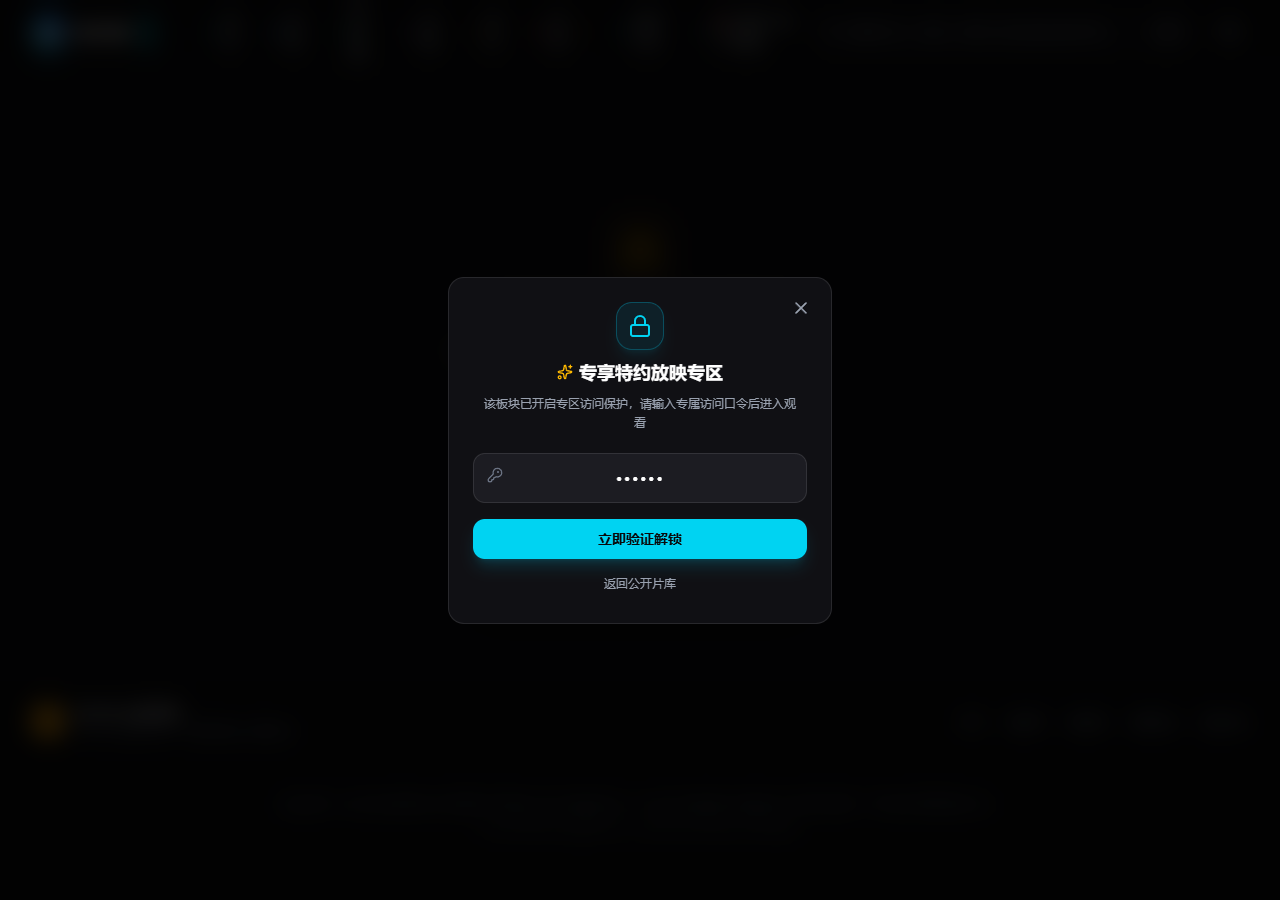
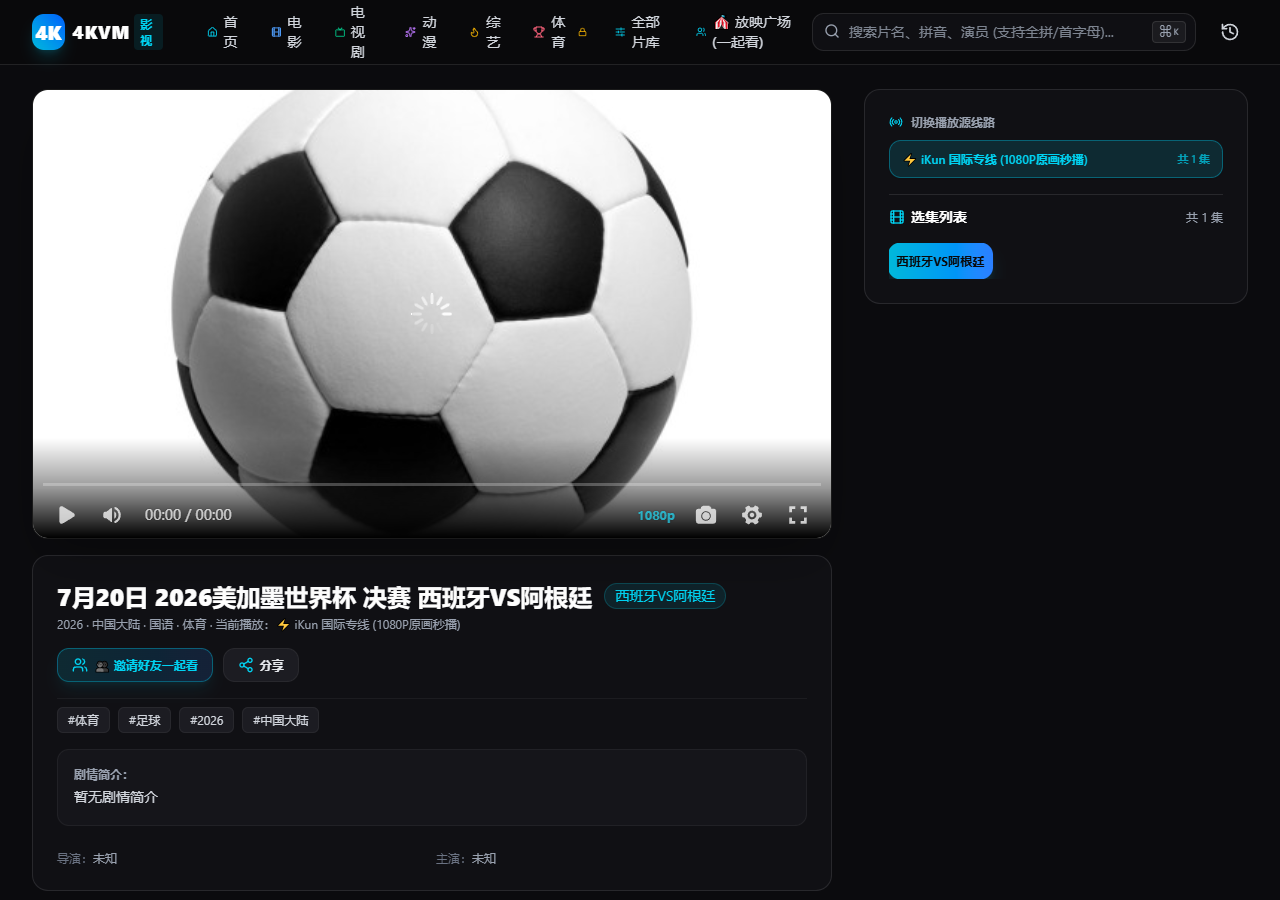
feat(config): add .env support for GATED_CONFIG, union priority logic, .env.example and comprehensive README documentation

diff --git a/src/config/gated-sections.ts b/src/config/gated-sections.ts
@@ -1,16 +1,35 @@
+function parseStringList(val: string | undefined, defaultList: string[]): string[] {
+  if (val === undefined || val === null || val.trim() === "") return defaultList;
+  return val
+    .split(",")
+    .map((s) => s.trim())
+    .filter(Boolean);
+}
+
+function parseNumberList(val: string | undefined, defaultList: number[]): number[] {
+  if (val === undefined || val === null || val.trim() === "") return defaultList;
+  return val
+    .split(",")
+    .map((s) => parseInt(s.trim(), 10))
+    .filter((n) => !isNaN(n));
+}
+
 /**
  * 4KVM 专区加锁 / 口令解锁全局配置中心
- * 可随时在此自定义需要输入口令的一级主分类、细分子类或具体 type_id
+ * 支持通过 .env 或 .env.local 环境变量完全覆盖与动态配置
  */
 export const GATED_CONFIG = {
-  // 解锁口令（支持在环境变量 NEXT_PUBLIC_GATED_PIN 中覆盖，默认口令 666888）
+  // 解锁口令（环境变量 NEXT_PUBLIC_GATED_PIN，默认 666888）
   passcode: process.env.NEXT_PUBLIC_GATED_PIN || "666888",
 
-  // 需要加锁的一级主分类名称（可在数组中自由添加或修改，例如 ["体育", "综艺"]）
-  lockedTypes: ["体育"],
+  // 粗粒度：需要加锁的一级主分类名称（环境变量 NEXT_PUBLIC_GATED_LOCKED_TYPES，英文逗号分隔，例如 "体育,综艺"）
+  lockedTypes: parseStringList(process.env.NEXT_PUBLIC_GATED_LOCKED_TYPES, ["体育"]),
 
-  // 或者按具体 type_id 细粒度加锁（40-55 为体育各项赛事及电竞）
-  lockedTypeIds: [40, 41, 46, 47, 48, 49, 50, 51, 52, 53, 54, 55],
+  // 细粒度：按具体 type_id 细粒度加锁（环境变量 NEXT_PUBLIC_GATED_LOCKED_TYPE_IDS，英文逗号分隔）
+  lockedTypeIds: parseNumberList(
+    process.env.NEXT_PUBLIC_GATED_LOCKED_TYPE_IDS,
+    [40, 41, 46, 47, 48, 49, 50, 51, 52, 53, 54, 55]
+  ),
 
   // 客户端持久化存储与请求头安全 Key
   storageKey: "4kvm_gated_passcode_token",
@@ -21,3 +40,39 @@ export const GATED_CONFIG = {
   title: "专享特约放映专区",
   description: "该板块已开启专区访问保护，请输入专属访问口令后进入观看",
 };
+
+/**
+ * 校验某一级主分类名称是否属于特约受限专区
+ */
+export function isTypeGated(typeName?: string | null): boolean {
+  if (!typeName) return false;
+  return GATED_CONFIG.lockedTypes.includes(typeName);
+}
+
+/**
+ * 校验某个细分子分类 ID 是否属于特约受限专区
+ */
+export function isTypeIdGated(typeId?: number | string | null): boolean {
+  if (typeId === undefined || typeId === null) return false;
+  const tid = typeof typeId === "number" ? typeId : parseInt(String(typeId), 10);
+  return !isNaN(tid) && GATED_CONFIG.lockedTypeIds.includes(tid);
+}
+
+/**
+ * 校验某个影片或分类对象是否属于受保护专区
+ * 
+ * 【优先级与判定逻辑：并集策略 (Union Policy)】
+ * 1. Step 1 (粗粒度快速覆盖)：若其一级分类名称 (type_name) 在 lockedTypes 列表中，立刻判定为受限；
+ * 2. Step 2 (细粒度精准补漏)：若一级分类未命中，但其具体子分类 ID (type_id) 在 lockedTypeIds 列表中，亦判定为受限；
+ * 3. 命中任一规则即受保护！
+ */
+export function isItemGated(item?: { type_name?: string; type_id?: number | string } | null): boolean {
+  if (!item) return false;
+  if (item.type_name && isTypeGated(item.type_name)) {
+    return true;
+  }
+  if (item.type_id !== undefined && item.type_id !== null && isTypeIdGated(item.type_id)) {
+    return true;
+  }
+  return false;
+}

diff --git a/src/app/category/page.tsx b/src/app/category/page.tsx
@@ -5,7 +5,7 @@ import { useRouter, useSearchParams } from "next/navigation";
 import { MovieCard } from "@/components/MovieCard";
 import { CreateRoomModal } from "@/components/CreateRoomModal";
 import { PasscodeModal } from "@/components/PasscodeModal";
-import { GATED_CONFIG } from "@/config/gated-sections";
+import { GATED_CONFIG, isTypeGated } from "@/config/gated-sections";
 import { VodItem } from "@/lib/types";
 import {
   Loader2,
@@ -160,7 +160,7 @@ function CategoryContent() {
   };
 
   const handleTypeClick = (val: string) => {
-    const isLocked = GATED_CONFIG.lockedTypes.includes(val);
+    const isLocked = isTypeGated(val);
     const hasUnlocked = unlockedPin === GATED_CONFIG.passcode;
     if (isLocked && !hasUnlocked) {
       setPendingType(val);
@@ -181,7 +181,7 @@ function CategoryContent() {
   const handleRelock = () => {
     localStorage.removeItem(GATED_CONFIG.storageKey);
     setUnlockedPin("");
-    if (GATED_CONFIG.lockedTypes.includes(currentType)) {
+    if (isTypeGated(currentType)) {
       updateFilter("type", "全部");
     }
   };
@@ -196,7 +196,7 @@ function CategoryContent() {
     router.push("/category");
   };
 
-  const isCurrentTypeGated = GATED_CONFIG.lockedTypes.includes(currentType);
+  const isCurrentTypeGated = isTypeGated(currentType);
   const isGatedUnlocked = unlockedPin === GATED_CONFIG.passcode;
 
   return (
@@ -247,7 +247,7 @@ function CategoryContent() {
           <div className="flex flex-nowrap sm:flex-wrap gap-1.5 flex-1 overflow-x-auto pb-1.5 sm:pb-0 scrollbar-none">
             {FILTER_CONFIG.types.map((item) => {
               const active = currentType === item.value;
-              const isLocked = GATED_CONFIG.lockedTypes.includes(item.value);
+              const isLocked = isTypeGated(item.value);
               const hasUnlocked = unlockedPin === GATED_CONFIG.passcode;
               return (
                 <button

diff --git a/src/components/Navbar.tsx b/src/components/Navbar.tsx
@@ -18,7 +18,7 @@ import {
   Trophy,
   Lock,
 } from "lucide-react";
-import { GATED_CONFIG } from "@/config/gated-sections";
+import { GATED_CONFIG, isTypeGated } from "@/config/gated-sections";
 import { DesktopSearch, MobileSearchModal } from "@/components/Search/GlobalSearch";
 
 
@@ -126,7 +126,7 @@ export function Navbar() {
                 >
                   <Trophy className="w-4 h-4 text-rose-400" />
                   体育
-                  {GATED_CONFIG.lockedTypes.includes("体育") && (
+                  {isTypeGated("体育") && (
                     <Lock className="w-3 h-3 text-amber-400" />
                   )}
                 </Link>
@@ -288,7 +288,7 @@ export function Navbar() {
                     <Trophy className="w-4 h-4 text-rose-400" />
                     体育
                   </div>
-                  {GATED_CONFIG.lockedTypes.includes("体育") && (
+                  {isTypeGated("体育") && (
                     <span className="flex items-center gap-1 text-[11px] text-amber-400 bg-amber-500/10 px-1.5 py-0.5 rounded border border-amber-500/20">
                       <Lock className="w-2.5 h-2.5" /> 口令
                     </span>

diff --git a/src/app/api/vod/route.ts b/src/app/api/vod/route.ts
@@ -1,6 +1,6 @@
 import { NextResponse } from "next/server";
 import { fetchLiveVods, fetchLiveVodDetail } from "@/lib/vod-service";
-import { GATED_CONFIG } from "@/config/gated-sections";
+import { GATED_CONFIG, isItemGated, isTypeGated } from "@/config/gated-sections";
 
 export async function GET(request: Request) {
   const { searchParams } = new URL(request.url);
@@ -16,7 +16,7 @@ export async function GET(request: Request) {
 
   if (action === "detail" && id) {
     const item = await fetchLiveVodDetail(id);
-    if (item && GATED_CONFIG.lockedTypes.includes(item.type_name)) {
+    if (item && isItemGated(item)) {
       if (!checkPasscode()) {
         return NextResponse.json(
           { code: 403, msg: "该内容属于专享保护板块，请提供访问口令" },
@@ -30,7 +30,7 @@ export async function GET(request: Request) {
   const type = searchParams.get("type") || "全部";
 
   // 服务端双重安全防护：若请求受保护分类，强制验证口令
-  if (GATED_CONFIG.lockedTypes.includes(type)) {
+  if (isTypeGated(type)) {
     if (!checkPasscode()) {
       return NextResponse.json(
         {

diff --git a/src/app/api/vod/suggest/route.ts b/src/app/api/vod/suggest/route.ts
@@ -1,6 +1,6 @@
 import { NextResponse } from "next/server";
 import { querySuggestions } from "@/lib/search-engine";
-import { GATED_CONFIG } from "@/config/gated-sections";
+import { GATED_CONFIG, isItemGated } from "@/config/gated-sections";
 
 export async function GET(request: Request) {
   const { searchParams } = new URL(request.url);
@@ -21,7 +21,7 @@ export async function GET(request: Request) {
 
   // 若未解锁受控专区，过滤掉受控专区的内容
   if (!isUnlocked) {
-    list = list.filter((item) => !GATED_CONFIG.lockedTypes.includes(item.type_name));
+    list = list.filter((item) => !isItemGated(item));
   }
 
   return NextResponse.json({

diff --git a/README.md b/README.md
@@ -106,8 +106,34 @@
 
 ---
 
-### 8. 📱 全平台 PWA 原生应用与移动端适配
+### 8. 🔒 专享特约放映专区与双重安全防护体系 (Gated Access Security)
+- **业务场景与防爆破设计**：
+  - 为满足特定合规、私密或特约放映专区（如体育赛事、特定定制板块）的管理需求，系统提供**端到端双重安全防护**；
+  - **前端体验**：未解锁时导航与分类标有 `🔒 专享` 标识，点击平滑呼出暗黑毛玻璃口令输入框；解锁后凭证安全存储于 `localStorage`，全站免密畅播；
+  - **后端拦截**：即使恶意绕过前端网页直接请求后端 API（如 `/api/vod?action=detail&id=...`），服务端执行安全检验，缺少口令直接抛出 `HTTP 403 Forbidden` 并拒绝下发流媒体地址；
+- **优先级与判定逻辑（并集策略 Union Policy）**：
+  - **粗粒度一级主分类覆盖**：若配置了 `NEXT_PUBLIC_GATED_LOCKED_TYPES=体育`，则整个“体育”大类下所有影片一键全锁；
+  - **细粒度具体子分类补漏**：若未锁定整个大类，但配置了 `NEXT_PUBLIC_GATED_LOCKED_TYPE_IDS=40,41`，则仅足球、篮球等指定 ID 分类加锁，其余保持公开；
+  - **判定规则**：`isItemGated = 大类命中 OR 子类 ID 命中`（命中任一即受控，绝不漏防）；
+- **环境变量全动态配置**：口令、受限大类及细分子分类 ID 均支持在 `.env` / `.env.local` 中自由设定，无需修改任何代码，且 `.env` 已由 `.gitignore` 严格忽略，杜绝凭证泄露风险。
+
+---
+
+### 9. 🔍 全链路智能搜索与内存倒排拼音引擎 (Search & Pinyin Pro)
+- **毫秒级拼音倒排索引**：
+  - 引入高性能 `pinyin-pro`，在服务端内存对 6.3 万部影视建立轻量索引（<0.5ms 响应）；
+  - **全拼秒搜**：如输入 `chun` 秒出《早春晴朗》等数百部作品；
+  - **首字母拼音**：如输入 `zcql` 瞬间命中《早春晴朗》（Z-C-Q-L）与《只此青绿》；
+- **✨ 实时智能联想下拉卡片 (Auto-Complete Preview)**：
+  - 输入关键词防抖（150ms）弹出暗黑浮层，展示微缩海报、高亮片名、分类与演职人员，支持一键直达播放；
+- **🕒 本地搜索历史管理**：
+  - 自动记录最近搜索历史药丸标签，支持单个清除、一键清空与快捷发现。
+
+---
+
+### 10. 📱 全平台 PWA 原生应用与移动端适配
 - 支持 iOS (添加到主屏幕)、Android (一键安装 App) 与 PC 桌面端独立窗口无边框运行；
+- 顶部常驻独立快捷 `🔍` 搜索入口，点击拉起沉浸式移动端全屏搜索面板；
 - 底部常驻悬浮导航栏（Bottom Tab Bar），单手盲操更流畅；
 - 配合 Service Worker 实现静态资源毫秒级秒开体验。
 
@@ -203,7 +229,47 @@
 
 ## 🚀 快速上手与部署
 
-### 1. 本地开发
+### 1. 环境变量配置 (.env)
+
+项目支持通过 `.env` 或 `.env.local` 自由定制口令与加锁板块。安全起见，所有包含敏感口令的 `.env*` 文件已被 `.gitignore` 自动忽略，仓库中提供了完整的模板文件 [`.env.example`](file:///.env.example)。
+
+```bash
+# 复制范例配置文件
+cp .env.example .env.local   # 本地调试
+# 或
+cp .env.example .env         # 生产部署
+```
+
+#### 🔒 特约专区防护配置项说明与优先级机制
+
+| 环境变量名 | 默认值 | 配置说明 | 作用维度 |
+| :--- | :--- | :--- | :--- |
+| `NEXT_PUBLIC_GATED_PIN` | `666888` | 专享区全局解锁口令 | 鉴权通行证 |
+| `NEXT_PUBLIC_GATED_LOCKED_TYPES` | `体育` | 需要整体加锁的一级大类名（英文逗号分隔，如 `体育,综艺`） | 粗粒度一键全锁 |
+| `NEXT_PUBLIC_GATED_LOCKED_TYPE_IDS` | `40,41,46..55` | 需要精准加锁的细分子分类 ID 列表（英文逗号分隔） | 细粒度精准补漏 |
+
+#### ⚖ 一级主分类 vs 细粒度 type_id 优先级与判定逻辑
+
+系统采用安全领域的**【并集策略 (Union Policy / 命中任一即加锁)】**，判定链路如下：
+
+```text
+[请求影视 / 分类]
+       │
+       ▼
+ 检查一级分类名称是否在 LOCKED_TYPES 中？
+  ├── 是 ──► [🔒 判定为受保护专区] (粗粒度快速覆盖，旗下所有子赛事一网打尽)
+  │
+  └── 否 ──► 检查具体分类 ID 是否在 LOCKED_TYPE_IDS 中？
+               ├── 是 ──► [🔒 判定为受保护专区] (细粒度精准补漏)
+               └── 否 ──► [🔓 判定为公开影视] (直接放行秒播)
+```
+
+- **场景 A（整类加锁）**：配置 `LOCKED_TYPES=体育`，旗下无论是 NBA (41)、足球 (40) 还是网球 (46) 全部自动加锁，无需逐个配 ID。
+- **场景 B（部分加锁）**：配置 `LOCKED_TYPES=""`，仅配置 `LOCKED_TYPE_IDS=40,41`，则普通体育项目公开，仅足球和篮球需要输入口令。
+
+---
+
+### 2. 本地开发
 
 ```bash
 # 1. 安装依赖
@@ -218,7 +284,7 @@ npm run dev
 
 浏览器打开 [http://localhost:3000](http://localhost:3000) 即可开始调试。
 
-### 2. Docker 生产部署
+### 3. Docker 生产部署
 
 ```bash
 # 构建并启动容器 (数据持久化在 ./data)
